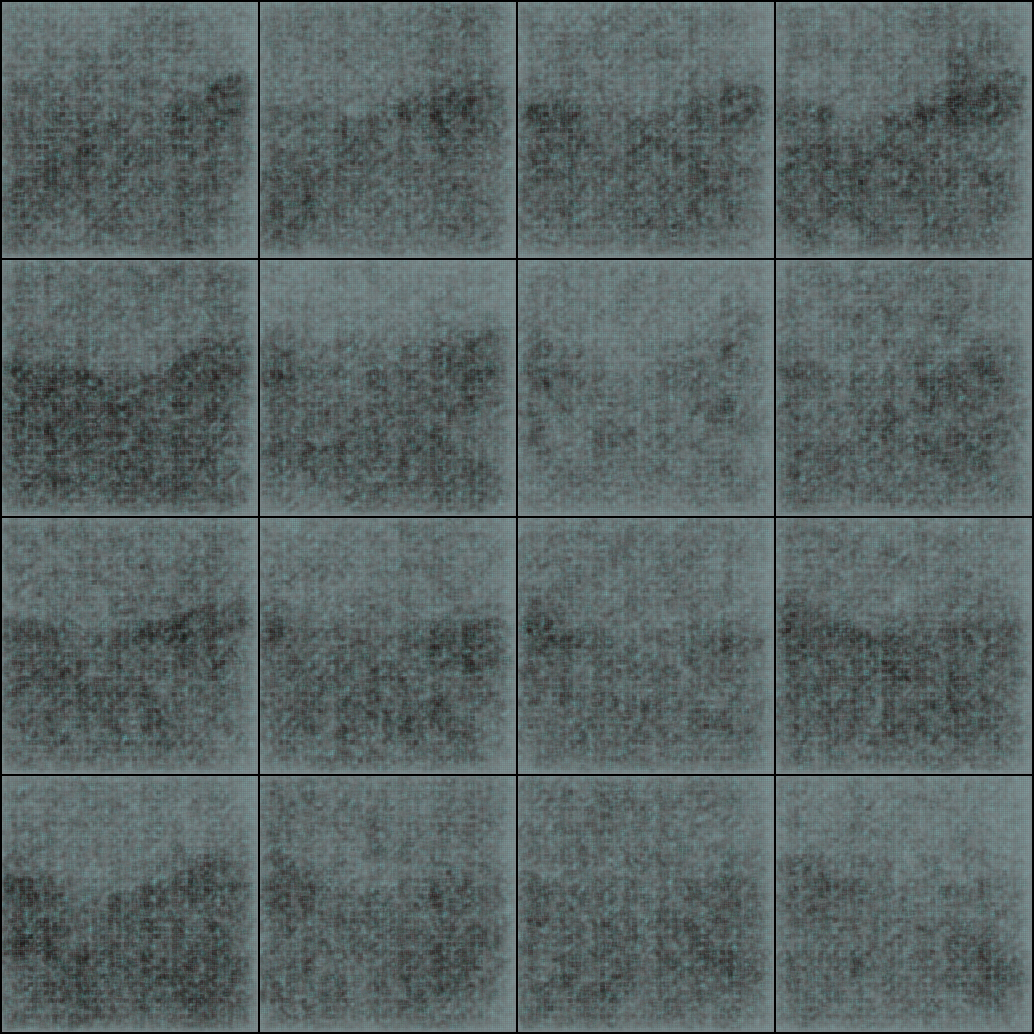
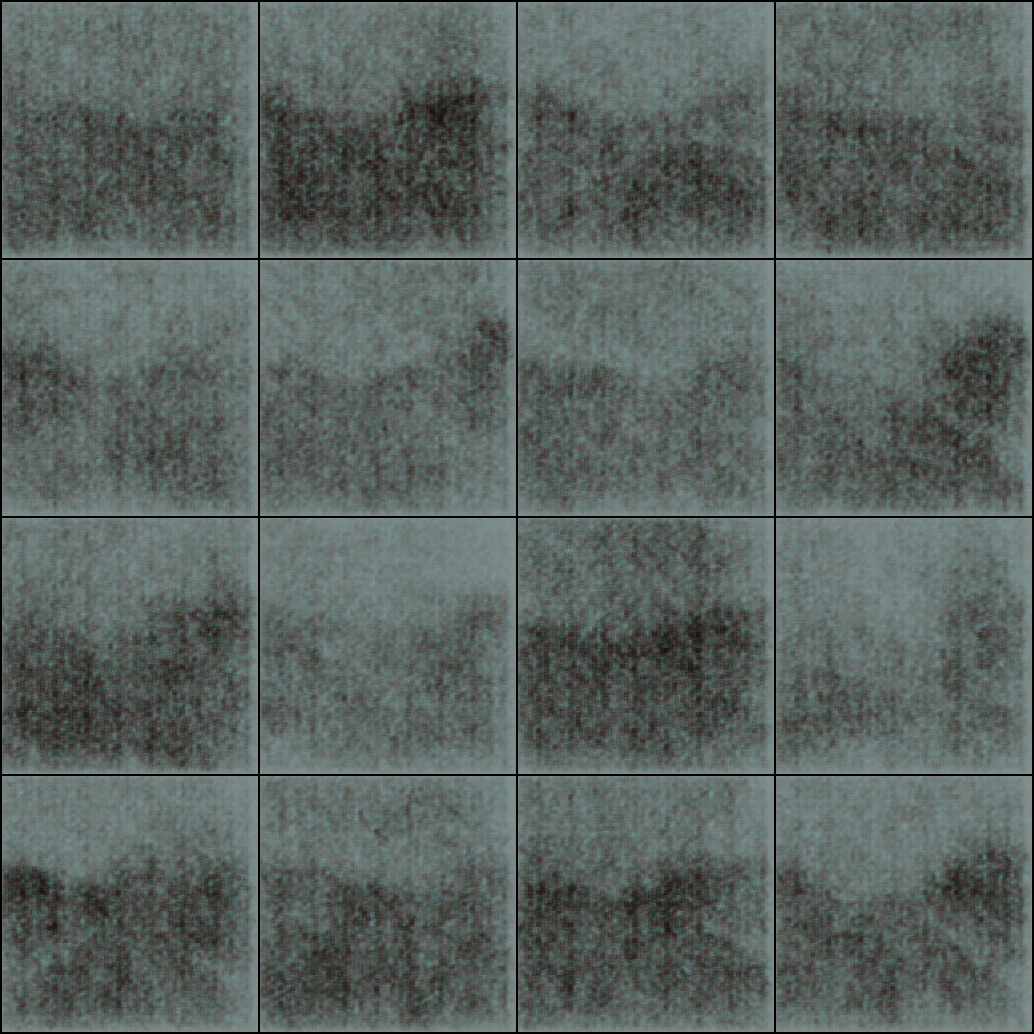
New debug

Changed region(s): [[0.0, 0.0, 1.0, 0.7427], [0.0, 0.7737, 1.0, 1.0]]

diff --git a/log/prosivic/debug/configuration.py b/log/prosivic/debug/configuration.py
@@ -22,7 +22,7 @@ class Configuration(object):
     # Diagnostics
     sample_size = 16
     sample_rows = 4 # nrow to save_image grid
-    loss = "bce"
+    loss = "l2"
     # Testing options
     nd_original_GPND = False
     percentages = [50] # percentage of outliers to use during testing
@@ -63,7 +63,7 @@ class Configuration(object):
 
         test_batch_size = 8 # Jacobian computations require smaller batches
         use_batchnorm = True
-        data_div = 50
+        data_div = 30
         n_train = 6785 // data_div
         n_val = 840 // data_div
         n_test = 500*2 // data_div # for GPND algorithm, the test set is split into val and test set during testing, since the valset contains outliers in order to compute an optimal threshold. This is used to compute some of the output values, but not AUPRIN or AUROC, which are threshold independent.
@@ -145,6 +145,6 @@ class Configuration(object):
         out_filenames = loadbdd100k.get_namelist_from_file(out_file)
         norm_spec = [["weather", ["clear","partly cloudy", "overcast"]],["scene", "highway"],["timeofday", "daytime"]]
         out_spec = [["weather", ["rainy", "snowy", "foggy"]],["scene", "highway"],["timeofday",["daytime","dawn/dusk","night"]]]
-# Training logged at Tue, 18 Dec 2018 14:04:13 UTC
-# Total training time:	0h0m47.8s
-# Average time/epoch:	0m0.48s
+# Training logged at Tue, 18 Dec 2018 14:33:05 UTC
+# Total training time:	0h1m12.5s
+# Average time/epoch:	0m0.72s

diff --git a/train_AAE.py b/train_AAE.py
@@ -231,7 +231,7 @@ def main(folding_id, inliner_classes, total_classes, folds=5, cfg = None):
     if cfg.loss.lower() == "bce":
         loss = nn.BCELoss()
     elif cfg.loss.lower() == "l2":
-        loss == nn.MSELoss()
+        loss = nn.MSELoss()
         
     y_real_ = torch.ones(batch_size)
     y_fake_ = torch.zeros(batch_size)
@@ -254,8 +254,8 @@ def main(folding_id, inliner_classes, total_classes, folds=5, cfg = None):
     sample = torch.randn(cfg.sample_size, zsize).view(-1, zsize)
     total_time = 0
     for epoch in range(train_epoch):
-        G.train()
-        E.train()
+        #G.train()
+        #E.train()
         if cfg.training_mode == "GPND_default":
             D.train()
             ZD.train()
@@ -372,6 +372,8 @@ def main(folding_id, inliner_classes, total_classes, folds=5, cfg = None):
                 Etrain_loss  += E_loss.item()
 
             else: # only autoencoder training
+                G.train()
+                E.train()
                 E.zero_grad()
                 G.zero_grad()
 

diff --git a/configuration.py b/configuration.py
@@ -22,7 +22,7 @@ class Configuration(object):
     # Diagnostics
     sample_size = 16
     sample_rows = 4 # nrow to save_image grid
-    loss = "bce"
+    loss = "l2"
     # Testing options
     nd_original_GPND = False
     percentages = [50] # percentage of outliers to use during testing
@@ -63,7 +63,7 @@ class Configuration(object):
 
         test_batch_size = 8 # Jacobian computations require smaller batches
         use_batchnorm = True
-        data_div = 50
+        data_div = 30
         n_train = 6785 // data_div
         n_val = 840 // data_div
         n_test = 500*2 // data_div # for GPND algorithm, the test set is split into val and test set during testing, since the valset contains outliers in order to compute an optimal threshold. This is used to compute some of the output values, but not AUPRIN or AUROC, which are threshold independent.
